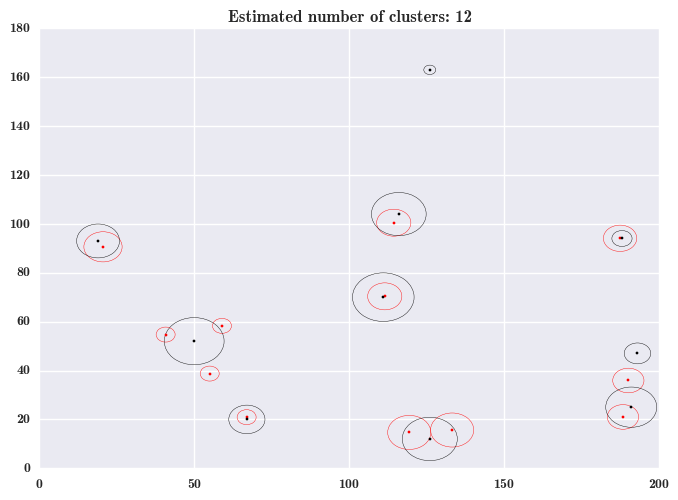
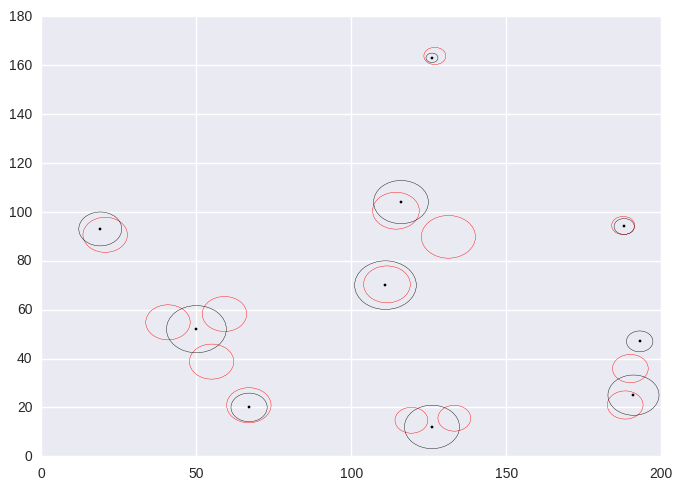
minor edits

diff --git a/post_sampling/post_sampling.py b/post_sampling/post_sampling.py
@@ -26,44 +26,44 @@ from common import *
 def filterNoise(XX,YY,x,y,a,r,l):
     X = copy.deepcopy(x)
     Y = copy.deepcopy(y)
-    R = copy.deepcopy(r)
     A = copy.deepcopy(a)
+    R = copy.deepcopy(r)
     L = copy.deepcopy(l)
     for i in range(len(XX)):
         index = where(X==XX[i])
         X = delete(X,index)
         Y = delete(Y,index)
-        R = delete(R,index)
         A = delete(A,index)
+        R = delete(R,index)
         L = delete(L,index)
     return X,Y,A,R,L
 
 def filterCluster(XX,YY,x,y,a,r,l,output_folder):
     X = copy.deepcopy(x)
     Y = copy.deepcopy(y)
-    R = copy.deepcopy(r)
     A = copy.deepcopy(a)
+    R = copy.deepcopy(r)
     L = copy.deepcopy(l)
     xx = []
     yy = []
-    rr = []
     aa = []
+    rr = []
     ll = []
     for i in range(len(XX)):
         index = where(X==XX[i])
         xx.append(X[index][0])
         yy.append(Y[index][0])
-        rr.append(R[index][0])
         aa.append(A[index][0])
+        rr.append(R[index][0])
         ll.append(L[index][0])
     temp = zeros((len(xx),5))
     temp[:,0] = xx
     temp[:,1] = yy
-    temp[:,2] = rr
-    temp[:,3] = aa
+    temp[:,2] = aa
+    temp[:,3] = rr
     temp[:,4] = ll
     savetxt(output_folder + "/cluster.txt", temp,fmt='%.6f')
-    X,Y,R,A,L = loadtxt(output_folder + "/cluster.txt", unpack=True)
+    X,Y,A,R,L = loadtxt(output_folder + "/cluster.txt", unpack=True)
     return X,Y,A,R,L
 
 def dbscan(XX,name,x,y,a,r,l):
@@ -71,13 +71,13 @@ def dbscan(XX,name,x,y,a,r,l):
     X = []
     Y = []
     L = []
-    R = []
     A = []
+    R = []
     N = len(XX[:,0])
     length = sorted(XX[:,0])[-1] - sorted(XX[:,0])[0]
     breath = sorted(XX[:,1])[-1] - sorted(XX[:,1])[0]
     eps = 2*(sqrt(length*breath/N))
-    db = DBSCAN(eps=eps).fit(XX)
+    db = DBSCAN(eps=eps,min_samples=4).fit(XX)
     
     core_samples_mask = zeros_like(db.labels_, dtype=bool)
     core_samples_mask[db.core_sample_indices_] = True
@@ -125,7 +125,7 @@ def plot_segments(ax, locs, vals, min_vals, max_vals):
         ax.plot(locs[mask], vals[mask], color=random_color())
         #color is chosen randomly, so sometimes it makes a bad selection
 
-def make_plot(filename, x, y, r, a, l, width, height, prefix, output_folder):
+def make_plot(filename, x, y, a, r, l, width, height, prefix, output_folder):
     #first plot of parameter vs L
     print "1"
     fig=plt.figure(figsize=(10,8))
@@ -219,7 +219,7 @@ def k_means(X, n_clusters):
 def calculateRadius(x1,y1,a1,r1,l1):
     n = int(math.ceil((len(l1)*0.1)))
     temp = zeros((n,5))
-    for i in range(n):
+    '''for i in range(n):
         m = l1[0]
         index = 0
         j = 0
@@ -236,7 +236,16 @@ def calculateRadius(x1,y1,a1,r1,l1):
         temp[i][4] = m
     r = mean(temp[:,3])
     x = mean(temp[:,0])
-    y = mean(temp[:,1])
+    y = mean(temp[:,1])'''
+    m = l1[0]
+    r = r1[0]
+    x = x1[0]
+    y = y1[0]
+    for i in range(len(l1)):
+        if(l1[i] > m):
+            r = r1[i]
+            x = x1[i]
+            y = y1[i]
     return r,x,y
 
 def run(configfile):
@@ -289,9 +298,8 @@ def run(configfile):
         smoothed_y = smooth(Lmy[ymask])
         maxes = compute_maxes(ym[ymask], smoothed_y)
         maxY = len(maxes)
-        m = maxY
-        if maxX > maxY:
-            m = maxX
+        m = max(maxX,maxY)
+        
         if m != 0:
             centers,kmeans_clusters = k_means(XX,m)
             colors = plt.cm.Spectral(np.linspace(0, 1, len(clusters)))
@@ -309,13 +317,12 @@ def run(configfile):
             coordsY.append(yvalue)
             coordsR.append(radius)
             
-
     for i in range(len(coordsX)):
         circle =  plt.Circle((coordsX[i],coordsY[i]),coordsR[i],edgecolor = 'r',facecolor='none')
         fig = plt.gcf()
         fig.gca().add_artist(circle)
         #print coordsX[i],coordsY[i],coordsR[i]
-
+    
     originalData = np.load(output_folder +"/" + prefix + "_srcs.npy")
 
     for i in range(len(originalData)):
@@ -323,9 +330,9 @@ def run(configfile):
         fig = plt.gcf()
         fig.gca().add_artist(circle)
         #print originalData[i][0],originalData[i][1],originalData[i][3]
-    plt.plot(coordsX, coordsY, 'o', markerfacecolor="r", markersize=2)
+    #plt.plot(coordsX, coordsY, 'o', markerfacecolor="r", markersize=2)
     plt.plot(originalData[:,0], originalData[:,1], 'o', markerfacecolor="k", markersize=2)
-    plt.title('Estimated number of clusters: %d' % len(coordsX))
+    #plt.title('Estimated number of clusters: %d' % len(coordsX))
     plt.savefig(output_folder + "/plots/clusters_active_points.png", bbox_inches="tight")
 
-    w = make_plot("summary_active_points", X,Y,R,A,L,width,height,prefix,output_folder)
+    w = make_plot("summary_active_points", X,Y,A,R,L,width,height,prefix,output_folder)

diff --git a/run_all.py b/run_all.py
@@ -13,7 +13,7 @@ import post_sampling.post_sampling as ps
 import timeit
 
 
-'''num_runs = 3
+num_runs = 3
 for i in range(num_runs):
     # In[2]:
 
@@ -56,7 +56,7 @@ for i in range(num_runs):
     # In[8]:
     stop = timeit.default_timer()
     print stop - start, 'seconds'
-'''
+
 fileout="files/2/config_2.ini"
 ps.run(fileout)
 
